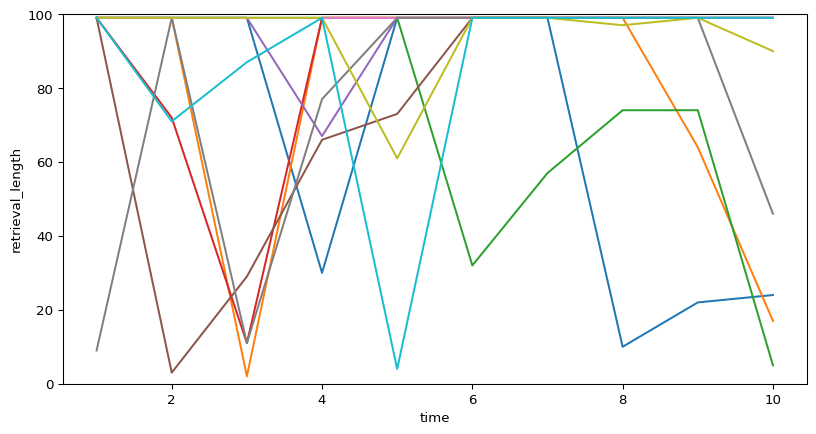
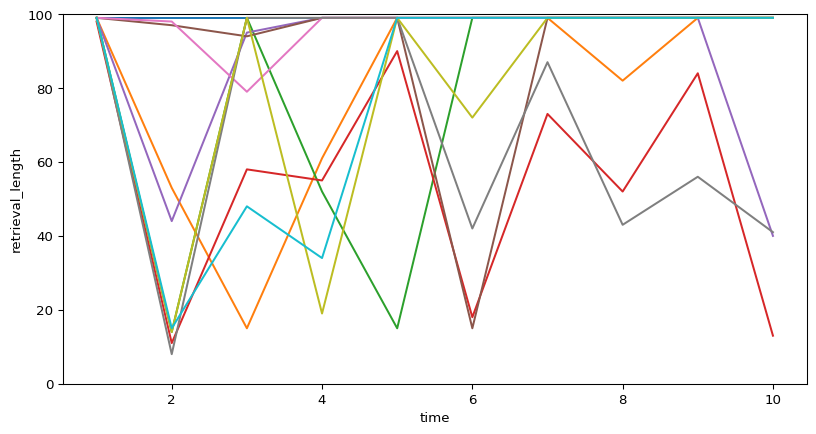
Built site for gh-pages

diff --git a/index.html b/index.html
@@ -142,7 +142,7 @@
 <h2>Generating Memory Network</h2>
 <p>The first step is to create our memories.</p>
 
-<img data-src="ESK.png" class="r-stretch quarto-figure-center"><p class="caption">image.png</p><p>According to Conway and Pearce (2000), autobiographical memory can be divided into three main components:</p>
+<img data-src="ESK.png" class="r-stretch quarto-figure-center"><p class="caption">Autobiographical Memory Structure</p><p>According to Conway and Pearce (2000), autobiographical memory can be divided into three main components:</p>
 <ul>
 <li>lifetime periods (“When I was younger”)</li>
 <li>general events (“I went on a trip during summer break”)</li>
@@ -204,22 +204,22 @@
 </section>
 <section id="testing" class="slide level2">
 <h2>Testing</h2>
-<div id="b1737ea5" class="cell" data-execution_count="5">
+<div id="4ab98811" class="cell" data-execution_count="5">
 <div class="cell-output cell-output-stdout">
-<pre><code>99
+<pre><code>98
+30
 99
-27
-99
-99
-99
-99
+58
+25
 99
 99
 99
-19
-4
-72
-42
+99
+99
+99
+99
+99
+99
 99
 99
 99
@@ -232,7 +232,7 @@
 <section id="exploration-and-visualization" class="slide level2">
 <h2>Exploration and Visualization</h2>
 <p>First, visualizing the retrieval lengths of an agent over ten time units.</p>
-<div id="c10208b9" class="cell" data-execution_count="7">
+<div id="96834788" class="cell" data-execution_count="7">
 <div class="cell-output cell-output-display">
 <div>
 <figure>
@@ -242,7 +242,7 @@
 </div>
 </div>
 <p>Next, Plotting average and final retrieval lengths across different parameters</p>
-<div id="330c0620" class="cell" data-execution_count="8">
+<div id="36a8ca1a" class="cell" data-execution_count="8">
 <div class="cell-output cell-output-display">
 <div>
 <figure>

diff --git a/ogm_model.html b/ogm_model.html
@@ -142,7 +142,7 @@
 <h2>Generating Memory Network</h2>
 <p>The first step is to create our memories.</p>
 
-<img data-src="ESK.png" class="r-stretch quarto-figure-center"><p class="caption">image.png</p><p>According to Conway and Pearce (2000), autobiographical memory can be divided into three main components:</p>
+<img data-src="ESK.png" class="r-stretch quarto-figure-center"><p class="caption">Autobiographical Memory Structure</p><p>According to Conway and Pearce (2000), autobiographical memory can be divided into three main components:</p>
 <ul>
 <li>lifetime periods (“When I was younger”)</li>
 <li>general events (“I went on a trip during summer break”)</li>
@@ -204,22 +204,22 @@
 </section>
 <section id="testing" class="slide level2">
 <h2>Testing</h2>
-<div id="b1737ea5" class="cell" data-execution_count="5">
+<div id="4ab98811" class="cell" data-execution_count="5">
 <div class="cell-output cell-output-stdout">
-<pre><code>99
+<pre><code>98
+30
 99
-27
-99
-99
-99
-99
+58
+25
 99
 99
 99
-19
-4
-72
-42
+99
+99
+99
+99
+99
+99
 99
 99
 99
@@ -232,7 +232,7 @@
 <section id="exploration-and-visualization" class="slide level2">
 <h2>Exploration and Visualization</h2>
 <p>First, visualizing the retrieval lengths of an agent over ten time units.</p>
-<div id="c10208b9" class="cell" data-execution_count="7">
+<div id="96834788" class="cell" data-execution_count="7">
 <div class="cell-output cell-output-display">
 <div>
 <figure>
@@ -242,7 +242,7 @@
 </div>
 </div>
 <p>Next, Plotting average and final retrieval lengths across different parameters</p>
-<div id="330c0620" class="cell" data-execution_count="8">
+<div id="36a8ca1a" class="cell" data-execution_count="8">
 <div class="cell-output cell-output-display">
 <div>
 <figure>
